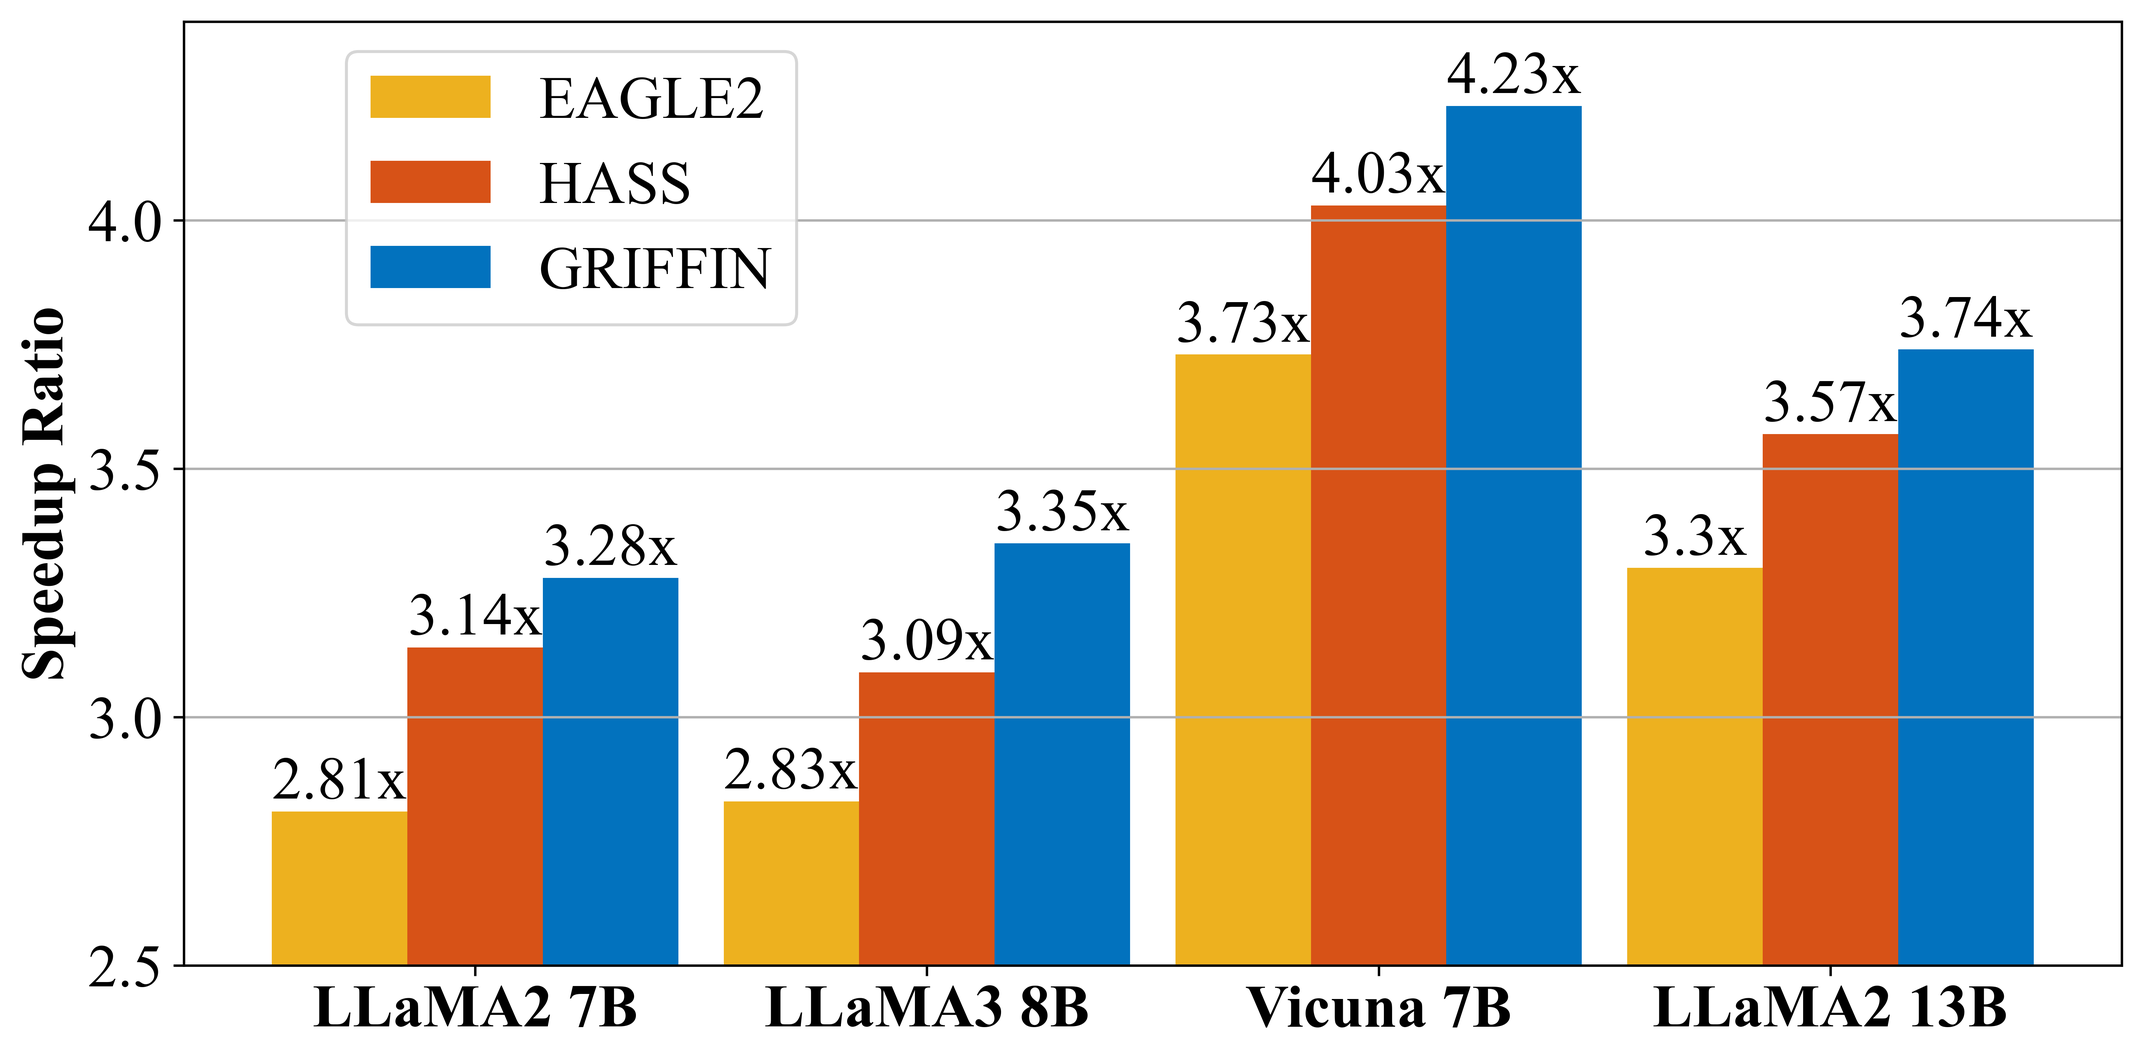
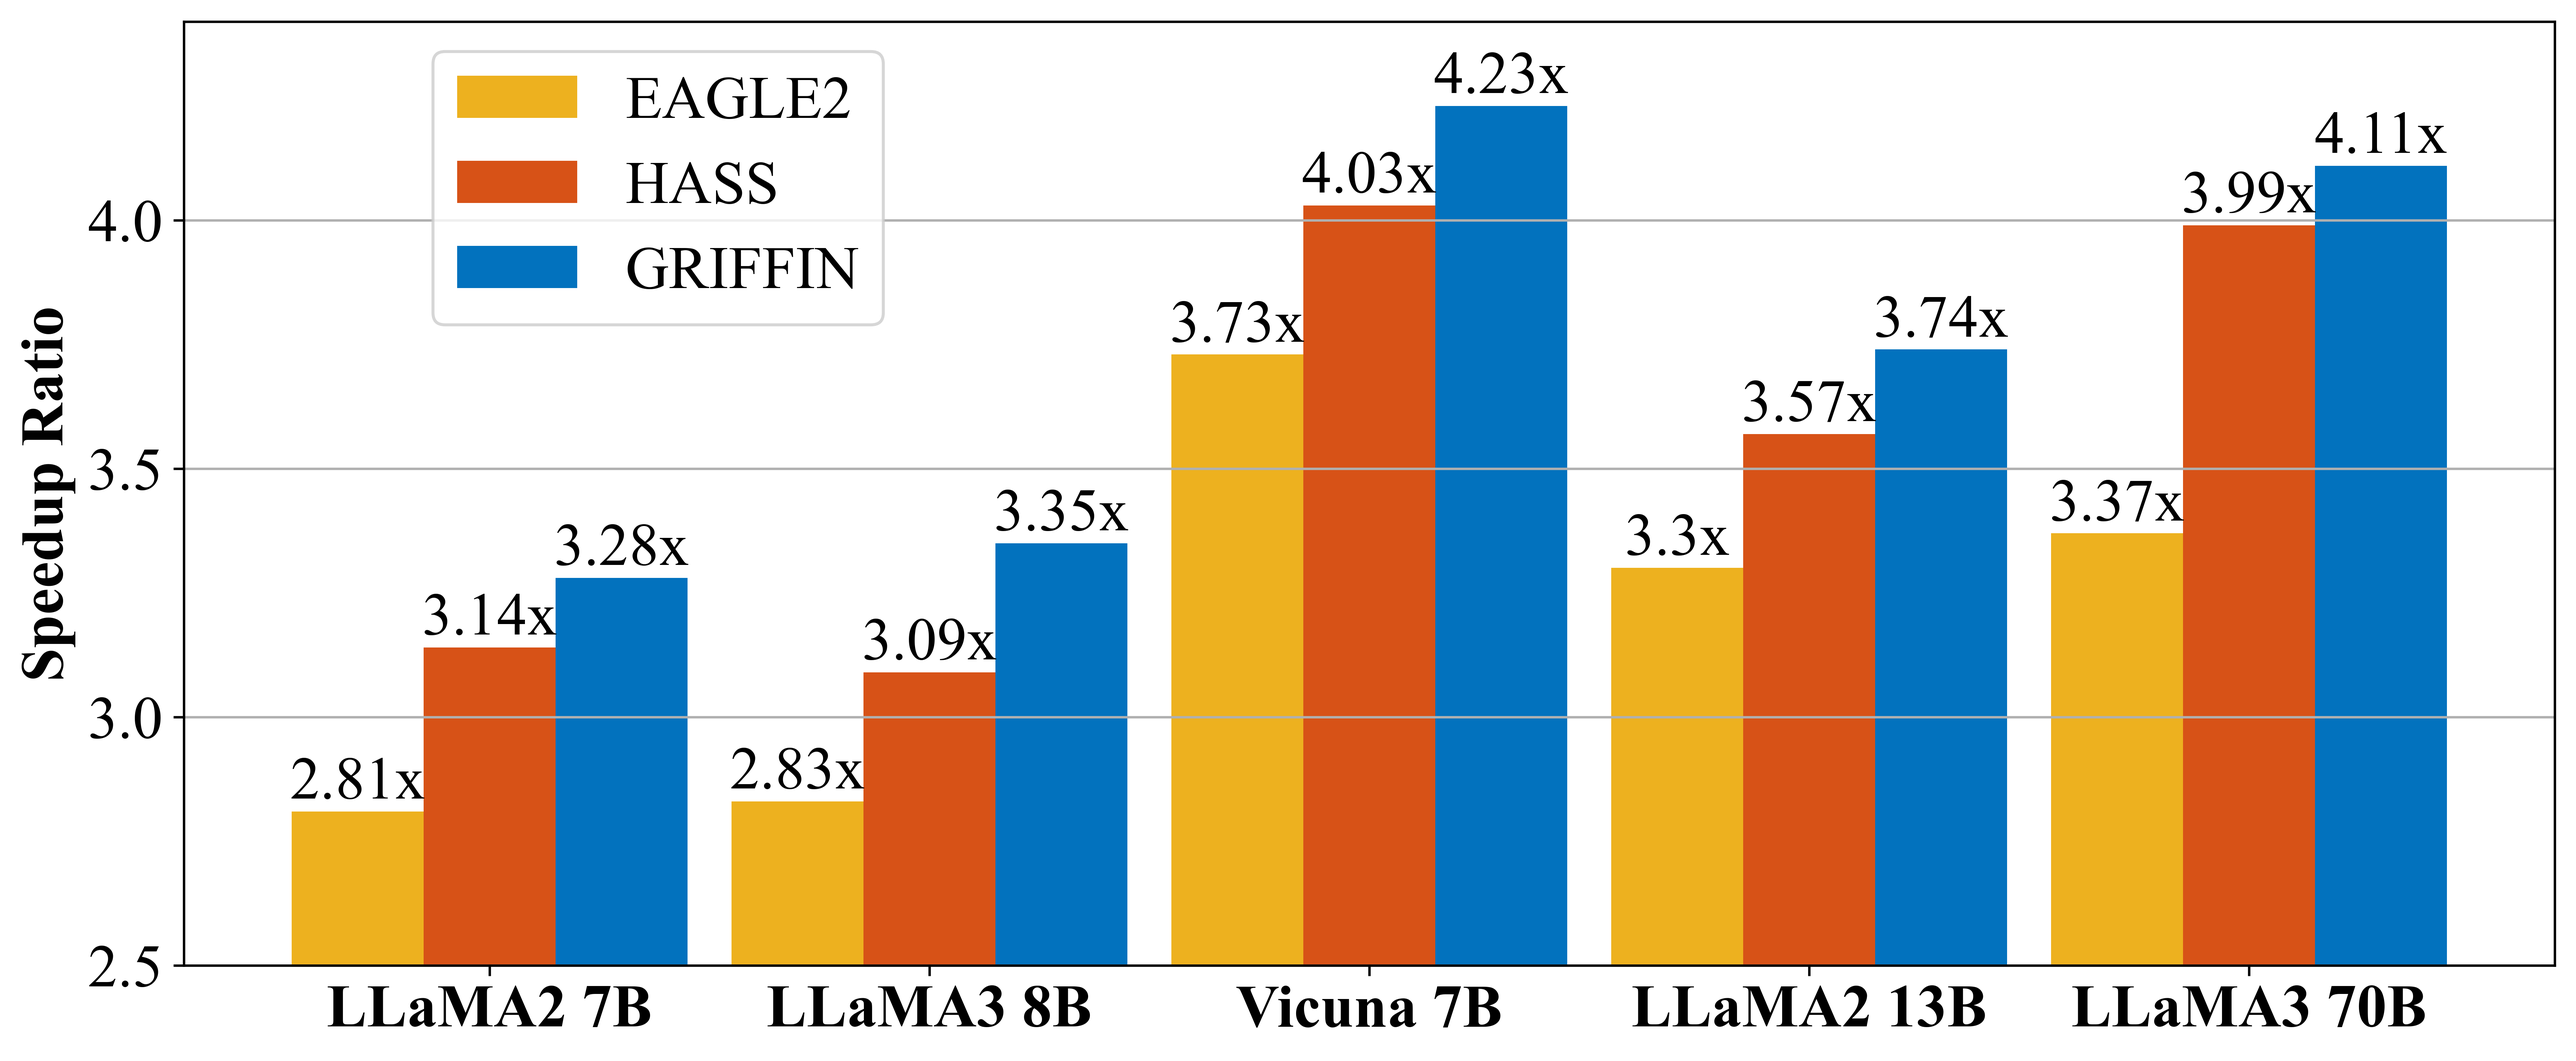
update llama3-70b

diff --git a/README.md b/README.md
@@ -36,7 +36,24 @@
   - **4.2x** faster than vanilla decoding.
   - **1.3x** faster than EAGLE-2.
 
+
+
+## Comparison Example of GRIFFIN and EAGLE-2
+
+### Inference speed of EAGLE-2 for llama3-8B in a 4090GPU
+
+<p align="center">
+  <img src="./figs/eagle2.gif" alt="demogif">
+</p>
+
+### Inference speed of GRIFFIN for llama3-8B in a 4090GPU
+
+<p align="center">
+  <img src="./figs/griffin.gif" alt="demogif">
+</p>
+
 ## Update
+
 **2025.2.24**: GRIFFIN v1.0 is released.
 
 ## Setup & Installation
@@ -64,6 +81,7 @@ pip install -r requirements.txt
 |------|------|------|------|
 | Vicuna-7B-v1.5 | [husj576/GRIFFIN-Vicuna-7B-v1.5](https://huggingface.co/husj576/GRIFFIN-Vicuna-7B-v1.5) | LLaMA2-Chat 7B | [husj576/GRIFFIN-llama2-chat-7B](https://huggingface.co/husj576/GRIFFIN-llama2-chat-7B) |
 | LLaMA3-Instruct 8B | [husj576/GRIFFIN-llama3-instruct-8B](https://huggingface.co/husj576/GRIFFIN-llama3-instruct-8B) | LLaMA2-Chat 13B | [husj576/GRIFFIN-llama2-chat-13B](https://huggingface.co/husj576/GRIFFIN-llama2-chat-13B) |
+| LLaMA3-Instruct 70B | [husj576/GRIFFIN-llama3-instruct-70B](https://huggingface.co/husj576/GRIFFIN-llama3-instruct-70B) |  |  |
 
 ## Inference
 The inference code we provide automatically allocates model weights (loading a model across multiple GPUs), allowing you to run models that exceed the memory of a single GPU.
@@ -124,6 +142,7 @@ Example configuration files can be found in the `GRIFFIN/train` directory.
 To evaluate the performance and speed of GRIFFIN, use the provided scripts for different models. Run the following commands: 
 ```bash
 ./scripts/llama3_test_8b.sh
+./scripts/llama3_test_70b.sh
 ./scripts/llama2_test_7b.sh
 ./scripts/llama2_test_13b.sh
 ./scripts/vicuna_test_7b.sh
